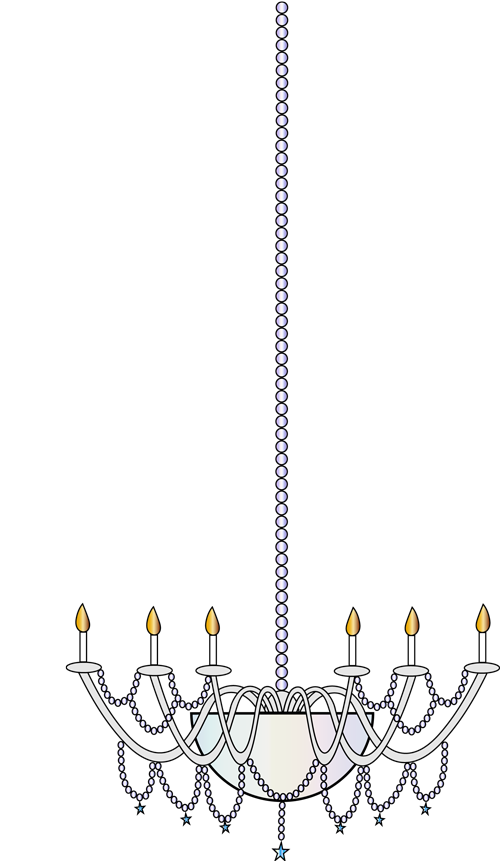
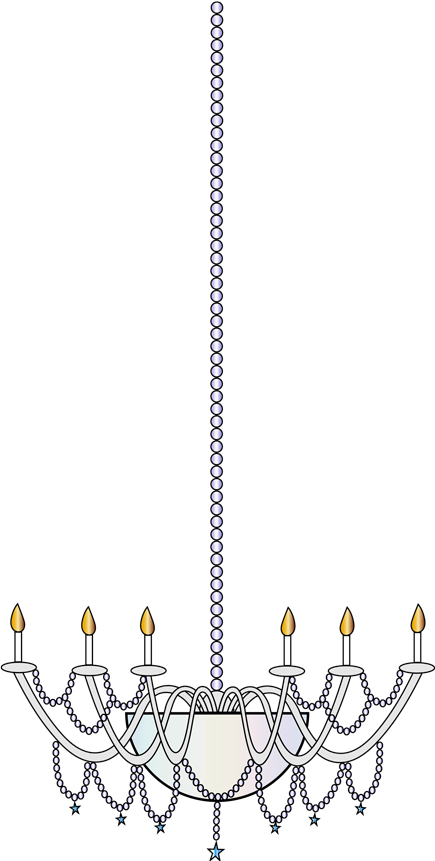
transitie kroonluchter en positie geweizigd

Changed region(s): [[0.0, 0.0, 1.0, 1.0]]

diff --git a/assets/style/normal.css b/assets/style/normal.css
@@ -60,20 +60,33 @@ body {
 
 #light-darkknop {
   position: fixed;
-  top: -12em;
+  top: -15em;
   right: 5em;
-  z-index: 20;
+  z-index: 9;
   padding: 0;
   border: none;
   background: transparent;
+  box-shadow: none;
+  transform: none;
 }
 
 #kroonluchter {
   display: block;
-  width: 15em;
+  width: 14em;
   height: auto;
+  filter: drop-shadow(0 0 0.2em #F3E5AB);
+  transition: 0.3s ease, filter 0.3s ease;
 }
 
+/* De kroonluchter zakt een beetje bij hover */
+#light-darkknop:hover #kroonluchter {
+  transform: translateY(2em);
+}
+
+/* Geen witte gloed in dark mode */
+body.dark-mode #kroonluchter {
+  filter: none;
+}
 body > picture {
   display: grid;
   min-height: 0;

diff --git a/assets/script.js b/assets/script.js
@@ -34,7 +34,7 @@ function pasKroonluchterAan() {
   if (!kroonluchter) return;
 
   kroonluchter.src = document.body.classList.contains("dark-mode")
-    ? "kleineafbeeldingen/chandelierdark.svg"
+    ? "kleineafbeeldingen/chandelierdark.png"
     : "kleineafbeeldingen/chandelier.png";
 }
 
